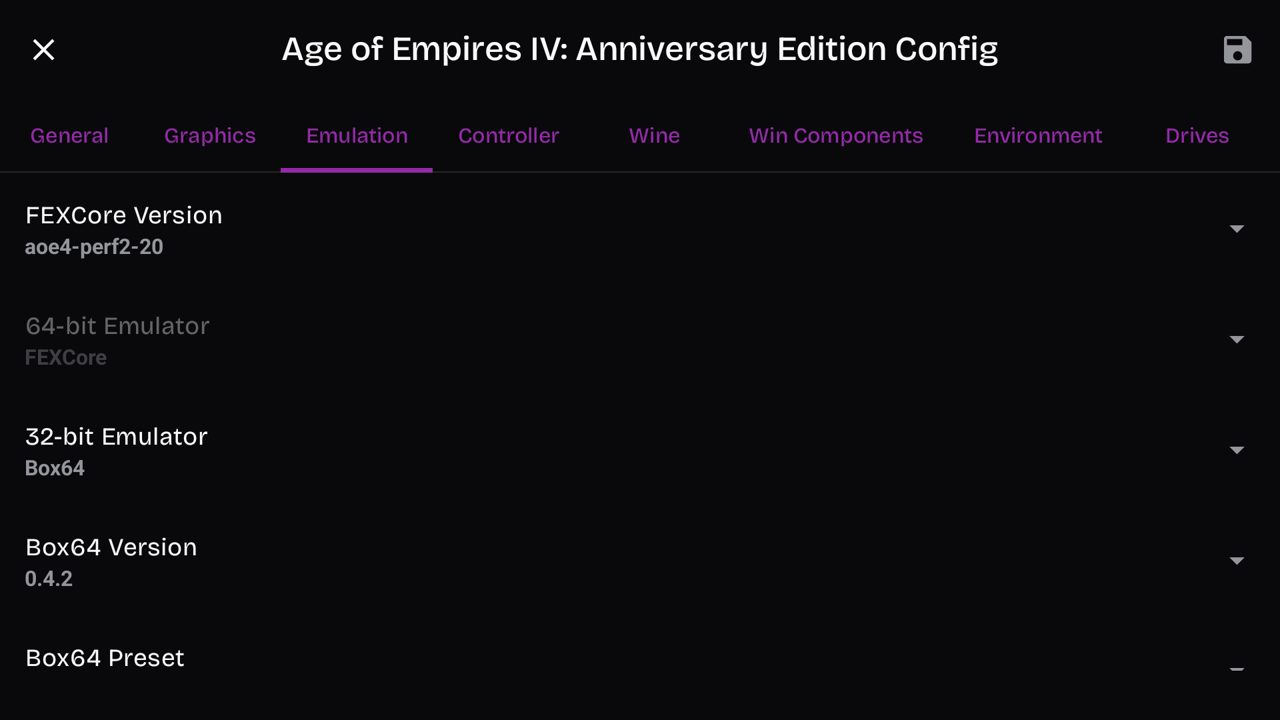
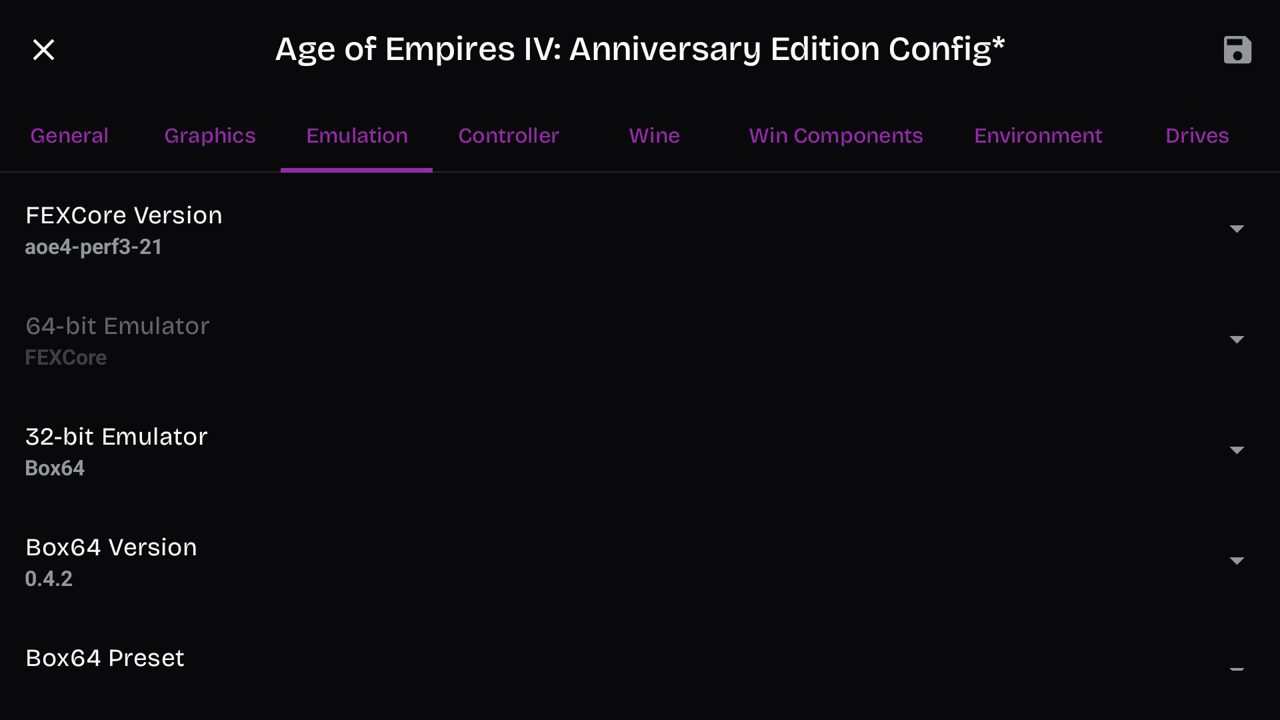
Package v1.1.0: drop 0002, 0007 in every process, add 0015
To lower what the package hides from the game:

- 0002 (hides FEX's name in CPUID leaf 0x40000000) leaves the package.
  The game ran the full benchmark without it and reads FEXIFEXIEMU there.
- 0007 no longer checks for RelicCardinal.exe: it rewrites the bare FF 25
  export stubs in every process where FEX runs. Read with the agent:
  48 ff 25 in the game, aoeagent.exe and winhandler.exe; explorer.exe
  keeps ff 25 because FEX is not loaded there.
- 0015 fixes a FEX bug that the build without 0002 hit: Module.S loaded
  the uint32_t NtDllRedirectionLUTSize with a 64-bit ldr (link error when
  not 8-byte aligned, and the bound included the next 4 bytes).

Back to back on a hot Thor: v1.1.0 41.3 / 40.7 FPS at minutes 1 / 5,
v1.0.0 41.0 / 40.8 (docs/guides/TUNING.md). Clean builds of the v1.0.0 set
and of the new set reproduce the tested DLLs except the build time stamp.

docs/research/UPSTREAM-WINE-ISSUE.md is a draft Wine bug for the source of
the FF 25 stubs (winebuild leaves ARM64EC -import exports to lld's x64
import thunk), with the facts checked in the Wine and LLVM sources.

Changed region(s): [[0.2188, 0.0306, 0.7812, 0.0917], [0.0938, 0.3361, 0.125, 0.3667]]

diff --git a/patches/fex/README.md b/patches/fex/README.md
@@ -3,23 +3,23 @@
 | Patch | Status (2026-10-06) |
 |---|---|
 | `0001` + `0003` | Hide the trap by replacing it with `ForceFullSMCDetection`. `smctest` shows `RWX`, but the game stops at start-up; `SMCChecks=full` stops the same way, so the validation path is the problem ([KILL-REMEASURED.md](../../docs/research/KILL-REMEASURED.md)). |
-| `0002` | Hides the CPUID `0x40000000` vendor. Verified live. Does not stop the kill. |
+| `0002` | Hides the CPUID `0x40000000` vendor. Verified live. Does not stop the kill. **Not in the package since v1.1.0:** a build without it (`bc82c565`) ran the same test at the same speed as v1.0.0 (2026-10-07, [TUNING.md](../../docs/guides/TUNING.md)); the game then reads vendor `FEXIFEXIEMU` from leaf `0x40000000` (hypervisor bit in leaf 1: 0, read with `tools/research/dbgprobe.c`). |
 | `0004` | Keeps the trap and reports the guest's own protection from `NtQueryVirtualMemory` / `NtProtectVirtualMemory`. Verified with `smctest2`; the game runs normally with it. **Does not stop the kill** (5 of 5 runs, [`SMC-TRAP.md`, part 3](../../docs/how-it-works/SMC-TRAP.md#part-3-hiding-fexs-smc-trap-does-not-stop-the-aegis-kill)). |
 | `0006` | On top of 0004: a raw x64 `syscall` returns `rcx` = return address and keeps `rdx`/`r10`, like hardware. Verified with `syscallregs`. **Does not stop the kill** (3 of 3 runs stopped: 2 suspended, 1 exited; [SYSCALL-RETURN.md](../../docs/how-it-works/SYSCALL-RETURN.md)). |
-| `0007` (2026-10-07) | In `RelicCardinal.exe` only: rewrites every exported `FF 25 disp32` thunk of an ARM64X image as `48 FF 25 disp32-1` when padding follows and the 7 bytes stay inside an executable section. **The game's hook check then flags nothing, and the start-up kill is gone**; 2 of 2 judged runs grew their log past the old window, then stopped 8 to 10 minutes in ([HOOK-CHECK.md](../../docs/how-it-works/HOOK-CHECK.md)). |
+| `0007` (2026-10-07) | In every process where FEX runs (since v1.1.0; v1.0.0 did it only in `RelicCardinal.exe`): rewrites every exported `FF 25 disp32` thunk of an ARM64X image as `48 FF 25 disp32-1` when padding follows and the 7 bytes stay inside an executable section. **The game's hook check then flags nothing, and the start-up kill is gone**; 2 of 2 judged runs grew their log past the old window, then stopped 8 to 10 minutes in ([HOOK-CHECK.md](../../docs/how-it-works/HOOK-CHECK.md)). Checked 2026-10-07 with `tools/agent.py`: kernel32 `+0x62710` reads `48 ff 25` in the game, `aoeagent.exe` and `winhandler.exe`; `explorer.exe` keeps `ff 25`, because FEX is not loaded there. The stubs come from Wine's build ([UPSTREAM-WINE-ISSUE.md](../../docs/research/UPSTREAM-WINE-ISSUE.md)). |
 | `0009` (2026-10-07) | Experiment, off unless `FEX_EXP_SKIP_CALLRET_RESET=1`: on code invalidation, do not discard the call-ret stacks of threads that had code cached in the range. Cuts the per-SMC-fault cost from about 124 to 49 us for the protection's thread. With 0007 the game reached its first menu, then the watchdog fired at about 13 minutes ([`WATCHDOG.md`, part 1](../../docs/how-it-works/WATCHDOG.md#part-1-the-later-stop-a-lateness-bucket-on-the-protections-own-loop-2026-10-07)). Unsafe in general. With 0010 a run without it (and with `FEX_TSOENABLED=0`) passed 15 minutes, so the watchdog does not need it; but match FPS fell from about 25 to 8 to 15 without it ([RESEARCH-LOG.md](../../docs/research/RESEARCH-LOG.md), Speed). |
 | `0010` (2026-10-07) | On top of 0004, on unless `FEX_EXP_FASTCONTINUE=0` (the first builds were off unless `=1`): an `NtContinue` to x64 code (full context, not alertable) re-enters the emulator through `KiUserEmulationDispatcher` directly instead of Wine's unix path, which waits for one wineserver `get_thread_info` request per call. A handled exception then costs 2.5 us instead of 230 us (`exccost`), the protection loop's cycle falls to about 1.15 s and the watchdog bucket stays at 0 ([`WATCHDOG.md`, part 2](../../docs/how-it-works/WATCHDOG.md#part-2-fast-continue-the-watchdogs-real-cost-was-a-wineserver-round-trip-per-exception-2026-10-07)). Verified with the job tree build `08172f64` and with the exact set 0002+0004+0006+0007+0009+0010 (`86d6da39`): both ran past 15 minutes with the game played. |
 | `0012` (2026-10-07) | On by default (the code reads `FEX_EXP_VOLATILE=0` as off; that switch was not tested): **volatile code regions.** The protection runs code one instruction at a time from 32-byte slots in a 16 MB RWX buffer, which cost FEX a write fault, an invalidation and a compile per instruction (about 16,000/s). A private allocation of at most 64 MB whose page takes 16 write faults is no longer write-trapped, its blocks are never cached by address or linked, and blocks of the form [one instruction][`jmp` out of the region] share host code by content. Faults fell to about 300/s and skirmish FPS rose from 25.6 to 43 to 44 ([INSTRUCTION-STEPPER.md](../../docs/how-it-works/INSTRUCTION-STEPPER.md)). Verified with the exact set 0002+0004+0006+0007+0009+0010+0012+0013 (`20fdc47a`). |
 | `0013` (2026-10-07) | FEX's code buffer cap from 128 to 512 MB. With 0012 the 128 MB buffer was still replaced (full recompile, a stutter of up to 300 ms) about every 30 s; with 512 MB every 2 to 3 minutes. |
 | `0014` (2026-10-07) | On by default (the code reads `FEX_EXP_REUSE=0` as off; that switch was not tested): **reuse translations of re-decrypted code.** The protection scrambles some of its functions after use and decrypts them again; FEX recompiled them each time and still replaced its 512 MB code buffer (a full recompile) every 2 to 3 minutes. After a compile in a writable executable range FEX keeps the entry's host code with a hash of the decoded guest bytes, and puts it back when the same bytes return. 0 mismatches in 759,256 reuses; the code buffer then stayed at 256 MB for the 13.9 minutes checked ([INSTRUCTION-STEPPER.md](../../docs/how-it-works/INSTRUCTION-STEPPER.md)). Verified with the set 0002+0004+0006+0007+0009+0010+0012+0013+0014 (`6990a221`). |
+| `0015` (2026-10-07) | `CheckCall` in `Module.S` loads the `uint32_t` `NtDllRedirectionLUTSize` with a 64-bit `ldr`: its bound then includes the next 4 bytes in memory, and the link fails (`misaligned ldr/str offset`) when the variable is not 8-byte aligned, which happened in the build without 0002. Loads it as 32 bits. A FEX bug, not specific to this game. |
 | `0008` (2026-10-07) | Analysis tool: copies every distinct decoded block in `0x143800000..0x145000000` of the game process into a 96 MB buffer; `tools/probes/blkread.c` reads it out. The game runs normally with it. |
 
-Build: fresh clone of FEX `7d3090f`, apply 0002 and 0004 (and 0006, 0007, 0008, 0009, 0010 if wanted, in that order; the recommended set is 0002, 0004, 0006, 0007, 0009, 0010, 0012, 0013, 0014, which applies cleanly and was built and run without 0008), the three
-macOS fixes from [BUILDING-FEX.md](../../docs/guides/BUILDING-FEX.md), then `ninja arm64ecfex`. The 0007/0008 results came
-from a tree that also had the (disabled) trace code of 0005; the patches apply to clean `7d3090f` and on top of
-0002+0004+0006, but a build of exactly that set has not been run yet. If the link fails with
-`misaligned ldr/str offset`, add `alignas(8)` to `NtDllRedirectionLUTSize` in `Module.cpp` (`Module.S` loads it
-with a 64-bit `ldr`).
+Build: fresh clone of FEX `7d3090f`, the macOS fixes from [BUILDING-FEX.md](../../docs/guides/BUILDING-FEX.md), then the
+package's patches in this order: 0004, 0006, 0007, 0009, 0010, 0012, 0013, 0014, 0015 (release v1.1.0), then `ninja
+arm64ecfex`. Checked 2026-10-07: a clean build of these files gives the tested DLL `bc82c565` except the 4 bytes of the
+build time stamp (PE header and debug directory), and a clean build of the v1.0.0 set (0002, 0004, 0006, 0007 in its
+game-only form, 0009, 0010, 0012, 0013, 0014; tag `v1.0.0`) gives the released `6990a221` the same way.
 
 ## `0001-hide-smc-trap-from-guest.patch`
 

diff --git a/README.md b/README.md
@@ -30,7 +30,7 @@ things the emulator does differently from Windows. See [How it works](#how-it-wo
 - An Android device with a Snapdragon / Adreno GPU and GameNative 1.2.1. Only the AYN Thor was tested; similar
   Snapdragon 8 Gen 2 devices are the most likely to work.
 - Age of Empires IV on Steam, installed through GameNative.
-- The package `fexcore-aoe4-perf2.wcp` (900 KB) from the
+- The package `fexcore-aoe4-perf3.wcp` (900 KB) from the
   [latest release](https://github.com/tarikbc/aoe4-gamenative/releases/latest).
 - The graphics driver **Turnip v26.2.0 R4** (`Turnio_v26.2.0_R4.zip` from
   [StevenMXZ's release v26.2.0-R4](https://github.com/StevenMXZ/Adreno-Tools-Drivers/releases/tag/v26.2.0-R4)).
@@ -39,10 +39,10 @@ things the emulator does differently from Windows. See [How it works](#how-it-wo
 
 ### 1. Install the patched emulator and the driver
 
-1. Download [`fexcore-aoe4-perf2.wcp`](https://github.com/tarikbc/aoe4-gamenative/releases/latest/download/fexcore-aoe4-perf2.wcp)
+1. Download [`fexcore-aoe4-perf3.wcp`](https://github.com/tarikbc/aoe4-gamenative/releases/latest/download/fexcore-aoe4-perf3.wcp)
    and the driver zip on the device (they land in the Download folder).
 2. In GameNative: **Menu → Settings → Contents Manager → Import .wcp from device**, and pick the `.wcp`.
-   It shows up under the FEXCore type as `aoe4-perf2 (20)`.
+   It shows up under the FEXCore type as `aoe4-perf3 (21)`.
 3. **Menu → Settings → Driver Manager → Import ZIP from device**, and pick the driver zip.
 
 ### 2. Set up the game's container
@@ -57,7 +57,7 @@ Open the game in GameNative, tap the **cog** next to Play, then **Edit container
 | Graphics | Graphics Driver / Version | `Wrapper` / `Turnip v26.2.0 R4` |
 | Graphics | DX Wrapper | `VKD3D` |
 | Emulation | 64-bit Emulator | `FEXCore` |
-| Emulation | FEXCore Version | **`aoe4-perf2-20`** |
+| Emulation | FEXCore Version | **`aoe4-perf3-21`** |
 | Environment | add `WINEDEBUG` | `-all` (no Wine debug output, even when GameNative's Wine debug setting is on) |
 | Environment | add `FEX_EXP_SKIP_CALLRET_RESET` | `1` (roughly doubles the FPS) |
 
@@ -103,6 +103,9 @@ compositor):
 | **This package**, display at 60 Hz | 42.0 to 43.7 | 16.7 ms | 0 to 2 |
 | **This package**, display at 120 Hz | 42 to 46 | 25.3 ms | 0 to 2 |
 
+These were measured with v1.0.0. v1.1.0 gave the same numbers as v1.0.0 in a back-to-back test
+([TUNING.md](docs/guides/TUNING.md)).
+
 The CPU runs hot in long sessions: the hottest CPU sensor read about 95 °C during the tests (GPU about 77 °C).
 
 ## Known issues
@@ -128,8 +131,9 @@ behaves more like Windows; the game and the protection are not modified.
 
 1. **A start-up check failed.** The protection checks that Windows functions are not hooked. Wine's ARM64EC
    build lays out some function stubs (`jmp [addr]`, `FF 25`) in a way that looked like a hook, and the protection
-   stopped the game 2 to 3 minutes after the start. **Patch 0007** rewrites those stubs, in the game's process only, into a
-   form the check accepts. ([HOOK-CHECK.md](docs/how-it-works/HOOK-CHECK.md))
+   stopped the game 2 to 3 minutes after the start. **Patch 0007** rewrites those stubs into a form the check
+   accepts, in every process that runs x64 code. ([HOOK-CHECK.md](docs/how-it-works/HOOK-CHECK.md); the stubs come
+   from Wine's build tools, see [UPSTREAM-WINE-ISSUE.md](docs/research/UPSTREAM-WINE-ISSUE.md))
 2. **A watchdog fired.** One protection thread runs a loop that must keep up with a time budget, and it raises
    thousands of exceptions per second. Each exception cost about 230 µs under Wine (a round trip to the
    wineserver), the loop fell behind, and 8 to 13 minutes in the protection froze the game. **Patch 0010** lets
@@ -146,17 +150,19 @@ All against FEX `7d3090f`, in this order ([patches/fex](patches/fex)):
 
 | Patch | What it does |
 |---|---|
-| 0002 | Hides FEX's hypervisor vendor string in CPUID |
 | 0004 | Reports the game's own memory protection back to it, while FEX keeps its write traps |
 | 0006 | A raw x64 `syscall` returns registers like Windows does |
-| 0007 | Rewrites Wine's `FF 25` export stubs so the protection's hook check passes |
+| 0007 | Rewrites Wine's `FF 25` export stubs, in every process that runs x64 code, so the protection's hook check passes |
 | 0009 | Skips a costly per-fault reset (on only with `FEX_EXP_SKIP_CALLRET_RESET=1`; about twice the FPS) |
 | 0010 | Resumes x64 code after an exception without a wineserver round trip |
 | 0012 | Handles the protection's one-instruction-at-a-time buffer without faults and recompiles |
 | 0013 | Larger code buffer (512 MB), so FEX clears its whole cache less often |
 | 0014 | Reuses compiled code when the protection decrypts the same code again |
+| 0015 | Fixes a FEX bug: a 32-bit value was loaded as 64 bits (it also broke the build without 0002) |
 
-The package's DLL is `libarm64ecfex.dll`, SHA-1 `6990a221`. To build it yourself:
+Since v1.1.0 the package leaves out patch 0002, which hid FEX's name from the game: the game runs the same without
+it, so the package hides less. v1.0.0 had 0002, and 0007 only in the game's process. The package's DLL is
+`libarm64ecfex.dll`, SHA-1 `bc82c565`. To build it yourself:
 [BUILDING-FEX.md](docs/guides/BUILDING-FEX.md) and [`tools/make_fex_wcp.py`](tools/make_fex_wcp.py).
 </details>
 

diff --git a/docs/research/RESEARCH-LOG.md b/docs/research/RESEARCH-LOG.md
@@ -19,7 +19,7 @@ past 20 minutes. Speed in a 1v1 skirmish with the camera turning (compositor fra
 |---|---|
 | GameNative | 1.2.1, container variant `bionic` |
 | Wine | `proton-11.0-99-arm64ec-1` |
-| CPU emulator | FEXCore content `aoe4-perf2-20`: [`fexcore-aoe4-perf2.wcp`](https://github.com/tarikbc/aoe4-gamenative/releases/tag/v1.0.0) (release v1.0.0), FEX `7d3090f` + [patches](../../patches/fex) 0002, 0004, 0006, 0007, 0009, 0010, 0012, 0013, 0014 (`libarm64ecfex.dll`, SHA-1 `6990a221`) |
+| CPU emulator | FEXCore content `aoe4-perf3-21`: [`fexcore-aoe4-perf3.wcp`](https://github.com/tarikbc/aoe4-gamenative/releases/tag/v1.1.0) (release v1.1.0), FEX `7d3090f` + [patches](../../patches/fex) 0004, 0006, 0007, 0009, 0010, 0012, 0013, 0014, 0015 (`libarm64ecfex.dll`, SHA-1 `bc82c565`; release v1.0.0 also had 0002 and the game-only 0007, `6990a221`) |
 | Container `envVars` | `WRAPPER_MAX_IMAGE_COUNT=0 ZINK_DESCRIPTORS=lazy ZINK_DEBUG=compact,deck_emu MESA_SHADER_CACHE_DISABLE=false MESA_SHADER_CACHE_MAX_SIZE=512MB mesa_glthread=true WINEESYNC=1 MESA_VK_WSI_PRESENT_MODE=mailbox TU_DEBUG=noconform VKD3D_SHADER_MODEL=6_0 PULSE_LATENCY_MSEC=144 BOX64_AVX=1 VKD3D_DEBUG=warn WINEDEBUG=-all FEX_EXP_SKIP_CALLRET_RESET=1` (read back from both `.container` copies) |
 | GPU driver | Turnip v26.2.0 R4 (v26.3.0-R6, T30 and Balemuni Apex v2 compared in [TUNING.md](../guides/TUNING.md)) |
 | Display | 120 Hz (`peak_refresh_rate` and `min_refresh_rate` 120), set before the game starts |
@@ -75,13 +75,14 @@ recompile that still came every 2 to 3 minutes: no frame over 100 ms after the f
    ([BUILDING-FEX.md](../guides/BUILDING-FEX.md)); 0009 only acts with `FEX_EXP_SKIP_CALLRET_RESET=1`. Without 0012 to
    0014 the game also runs, at about 27 FPS.
 3. That `libarm64ecfex.dll` packaged as a FEXCore content with [`tools/make_fex_wcp.py`](../../tools/make_fex_wcp.py)
-   (the current one is in release v1.0.0: [`fexcore-aoe4-perf2.wcp`](https://github.com/tarikbc/aoe4-gamenative/releases/tag/v1.0.0), versionName `aoe4-perf2`,
-   versionCode 20, DLL `6990a221`),
+   (the current one is in release v1.1.0: [`fexcore-aoe4-perf3.wcp`](https://github.com/tarikbc/aoe4-gamenative/releases/tag/v1.1.0), versionName `aoe4-perf3`,
+   versionCode 21, DLL `bc82c565`),
    imported in GameNative (Settings, Contents Manager, Import .wcp from device) and selected in the container's
    Emulation tab, FEXCore Version (tested 2026-10-07 10:34 with `aoe-fastcontinue-10`: at the next start logcat
    shows GameNative applying `fexcore-aoe-fastcontinue-10`, and the installed DLL hashed `86d6da39`; since 11:17
    `aoe-fastcontinue2-11`, DLL `eca1e25b`; since 14:52 `aoe4-perf-18`, DLL `20fdc47a`, with 0012 and 0013; since
-   15:58 `aoe4-perf2-20`, DLL `6990a221`, with 0014 too). The earlier runs installed the DLL by hand instead
+   15:58 `aoe4-perf2-20`, DLL `6990a221`, with 0014 too; in the evening `aoe4-perf3-21`, DLL `bc82c565`, without
+   0002 and with 0015). The earlier runs installed the DLL by hand instead
    ([GAMENATIVE-UI.md](../guides/GAMENATIVE-UI.md)).
 4. Container `envVars`: `WINEDEBUG=-all FEX_EXP_SKIP_CALLRET_RESET=1`. 0010 is on by default since build
    `eca1e25b` (`FEX_EXP_FASTCONTINUE=0` turns it off; earlier builds needed `FEX_EXP_FASTCONTINUE=1`). 0009
@@ -303,7 +304,7 @@ and [WINE-GAPS.md](WINE-GAPS.md).
 |---|---|
 | Wine | `proton-11.0-99-arm64ec` |
 | CPU emulator | FEXCore; container variant `bionic` |
-| FEX DLL in use | `C:\windows\system32\libarm64ecfex.dll` built from FEX `7d3090f` + patches 0002, 0004, 0006, 0007, 0009, 0010, 0012, 0013, 0014 (SHA-1 `6990a221`), installed by GameNative from the FEXCore content `aoe4-perf2-20`. Before that: without 0014 (`20fdc47a`, `aoe4-perf-18`) and without 0012 to 0014 (`eca1e25b`, `aoe-fastcontinue2-11`) |
+| FEX DLL in use | `C:\windows\system32\libarm64ecfex.dll` built from FEX `7d3090f` + patches 0004, 0006, 0007, 0009, 0010, 0012, 0013, 0014, 0015 (SHA-1 `bc82c565`), installed by GameNative from the FEXCore content `aoe4-perf3-21`. Before that: with 0002 and the game-only 0007 (`6990a221`, `aoe4-perf2-20`), without 0014 (`20fdc47a`, `aoe4-perf-18`) and without 0012 to 0014 (`eca1e25b`, `aoe-fastcontinue2-11`) |
 | FEX switches | none needed with build `eca1e25b` (0010 on by default); the 11:24 run also had `FEX_TSOENABLED=0` |
 | DX wrapper | VKD3D (vkd3d-proton 2.14.1 + DXVK 2.4.1-gplasync) |
 | GPU driver | Turnip v26.2.0 R4 |

diff --git a/docs/research/UPSTREAM-WINE-ISSUE.md b/docs/research/UPSTREAM-WINE-ISSUE.md
@@ -1,0 +1,54 @@
+# Draft Wine bug: ARM64EC `-import` exports start with a bare x64 `jmp [rip+x]`
+
+Not filed. This is the source-level cause of the hook-check failure in [HOOK-CHECK.md](../how-it-works/HOOK-CHECK.md),
+written as a Wine bug report. FEX patch 0007 works around it inside the emulator; a fix in Wine would make that patch
+unnecessary. Sources were read on 2026-10-07 at Wine master `63f62f7cd696` and llvm-project main `1a5b507c6c6f`.
+
+## Summary
+
+On ARM64EC, functions that a DLL re-exports from another DLL (`-import` in the `.spec` file; kernel32.spec has many)
+are exported as lld's x64 import thunk, which is a bare `FF 25 00000000` (`jmp *__imp_X(%rip)`). x64 code that resolves
+such an export (`GetProcAddress`) sees a function that starts with a 6-byte indirect jump. x64 hook detectors in
+games treat that start as an inline hook. On x86_64 Wine the same export starts with winebuild's hot-patch prolog
+instead.
+
+## What the code does
+
+- **winebuild, x86_64:** the end of `output_exports` in
+  [`tools/winebuild/spec32.c`](https://github.com/wine-mirror/wine/blob/63f62f7cd696/tools/winebuild/spec32.c#L585-L622)
+  emits, for every `-import` entry, eight `nop`s, the label `__wine_spec_imp_<name>`, the hot-patch prolog
+  `48 8D A4 24 00 00 00 00` (`lea rsp,[rsp+0]`) and `jmp *__imp_<name>(%rip)`. The export points at that thunk.
+- **winebuild, ARM64EC:** the start of the same function
+  ([lines 414 to 439](https://github.com/wine-mirror/wine/blob/63f62f7cd696/tools/winebuild/spec32.c#L414-L439))
+  writes only `.drectve` directives `-export:Name=Name,@ord` and returns. The plain `Name` of an import is lld's x64
+  import thunk.
+- **lld:** the x64 import thunk is `importThunkX86[] = {0xff, 0x25, 0x00, 0x00, 0x00, 0x00}`
+  ([`lld/COFF/Chunks.h`](https://github.com/llvm/llvm-project/blob/1a5b507c6c6f/lld/COFF/Chunks.h#L545-L547)).
+  For exports whose target is ARM64EC code, lld emits a fast-forward sequence (`ECExportThunkCode`, `48 8B C4 48 89
+  58 20 55 5D E9 ...`, [same file](https://github.com/llvm/llvm-project/blob/1a5b507c6c6f/lld/COFF/Chunks.h#L839-L847)),
+  as Microsoft's toolchain does for all DLL exports ([ARM64EC ABI, "Fast-forward
+  sequences"](https://learn.microsoft.com/en-us/windows/arm/arm64ec-abi)); an import thunk gets none.
+
+## How it shows
+
+AoE IV (Relic's Aegis) checks 63 Windows API functions at start-up. Under GameNative's Proton 11.0 ARM64EC with FEX,
+27 of them were flagged, all in kernel32's `.text`, all starting with `FF 25` (measured, see
+[HOOK-CHECK.md](../how-it-works/HOOK-CHECK.md)). Presenting the same jumps as `48 FF 25` (FEX patch 0007) made the
+check flag nothing.
+
+## Possible fix (not tested)
+
+The following was proposed by reading the source; none of it was built or run here.
+
+1. In `output_exports`, for ARM64EC `-import` entries, emit the same x86_64 thunk as on x86_64 (nop pad, hot-patch
+   prolog, `jmp *__imp_<name>(%rip)`) and point the `-export:` directive at it. Wine merge request
+   [!11975](https://gitlab.winehq.org/wine/wine/-/merge_requests/11975) (winebuild assembling ARM64EC output as
+   x86_64) looks like the base for this.
+2. `arm64x_check_call` in
+   [`dlls/ntdll/signal_arm64ec.c`](https://github.com/wine-mirror/wine/blob/63f62f7cd696/dlls/ntdll/signal_arm64ec.c#L1897-L1979)
+   follows a bare `FF 25` to its target so that ARM64EC callers skip the emulator. It would need to skip the hot-patch
+   prolog as well, or calls through these exports would run in the emulator (correct, but slower).
+
+Not checked: what Microsoft's own ARM64X kernel32 or link.exe produce for a re-exported import, and whether the
+game's detector accepts the `lea` prolog form. The game's start-up decision under Box64, which runs x86_64 Wine, took
+the same branch as with patch 0007 ([HOOK-CHECK.md](../how-it-works/HOOK-CHECK.md)).

diff --git a/docs/how-it-works/HOOK-CHECK.md b/docs/how-it-works/HOOK-CHECK.md
@@ -48,15 +48,18 @@ or ntdll syscall stubs (`4C 8B D1 B8 ...`), which the detector does not flag.
 `tools/winebuild/spec32.c` (`output_exports`, Valve Wine `proton_11.0`) gives every `-import` export a hot-patch
 prolog, `48 8D A4 24 00 00 00 00`, before `jmp *__imp_x(%rip)`. That branch only runs for `CPU_i386` and
 `CPU_x86_64`. The ARM64EC kernel32 has bare `FF 25` thunks instead: its `.text` holds 933 `FF 25 disp32` sequences
-followed by padding.
+followed by padding. Where they come from (lld's x64 import thunk), and a possible fix in Wine:
+[UPSTREAM-WINE-ISSUE.md](../research/UPSTREAM-WINE-ISSUE.md).
 
 ## Patch 0007: rewrite exported `FF 25` thunks
 
 [0007](../../patches/fex/0007-rewrite-ff25-export-thunks.patch) rewrites each exported `FF 25 disp32` in an ARM64X
 image (one with a `.hexpthk` section) as `48 FF 25 disp32-1`: the same jump, one byte longer. It only rewrites when
-the byte after the jump is padding and the 7 bytes stay inside an executable section. It runs only in
-`RelicCardinal.exe`: on the first image mapping after the main thread has a CPU area, for every module already
-loaded, and for each image mapped after that.
+the byte after the jump is padding and the 7 bytes stay inside an executable section. It runs on the first image
+mapping after the main thread has a CPU area, for every module already loaded, and for each image mapped after that.
+Until v1.0.0 it ran only in `RelicCardinal.exe`; since v1.1.0 it runs in every process where FEX runs. Read with
+`tools/agent.py` on 2026-10-07: kernel32 `+0x62710` holds `48 ff 25` in the game, `aoeagent.exe` and
+`winhandler.exe`, and `ff 25` in `explorer.exe`, which has no FEX loaded (no x64 code runs there).
 
 `tools/probes/thunkprobe.c`, run as `RelicCardinal.exe`, counted the rewritten exports: kernel32 798, kernelbase 2,
 user32 208, advapi32 200, ntdll 0, ws2_32 0.
@@ -118,7 +121,8 @@ settings, and `r12` at `+0x3ebb5f8` was still `0x96fce`.
 
 - **Link error after adding a global to FEX's Module.cpp:** `ld.lld: error: misaligned ldr/str offset`. `CheckCall`
   in `Module.S` loads `NtDllRedirectionLUTSize` (a `uint32_t`) with a 64-bit `ldr`. When the data layout moves it to
-  a 4-byte boundary the link fails. `alignas(8)` on that variable fixes it.
+  a 4-byte boundary the link fails. `alignas(8)` on that variable avoids it; patch 0015 loads it as 32 bits instead,
+  which also keeps the bound from including the next 4 bytes.
 - **An intermittent start-up failure:** in 4 runs the game process failed in `loader_init` with an execute fault at
   the entry of its own `ucrtbase.dll` (`ucrtbase.dll+0x63c10`). In all 4 the game process had ntdll at
   `0x7fff9a0000` and ucrtbase at `0x7f..`; a run that started normally had ntdll at `0x6fff9a0000`. One of the builds

diff --git a/docs/README.md b/docs/README.md
@@ -13,7 +13,7 @@ The problems the patches fix, one write-up each, and the protection itself.
 | [WATCHDOG.md](how-it-works/WATCHDOG.md) | **Problem 2, patch 0010.** The lateness bucket on the protection's loop, and the wineserver round trip per exception that filled it |
 | [INSTRUCTION-STEPPER.md](how-it-works/INSTRUCTION-STEPPER.md) | **Problem 3, patches 0012 to 0014.** Code run one instruction at a time from a scratch buffer, and how FEX now handles it (26.7 → 43.7 FPS) |
 | [SMC-TRAP.md](how-it-works/SMC-TRAP.md) | Patch 0004. FEX's self-modifying-code trap was visible to the game; hiding it did not stop the kill |
-| [FEX-VENDOR-LEAK.md](how-it-works/FEX-VENDOR-LEAK.md) | Patch 0002. FEX's name in CPUID leaf `0x40000000` |
+| [FEX-VENDOR-LEAK.md](how-it-works/FEX-VENDOR-LEAK.md) | Patch 0002 (not in the package since v1.1.0). FEX's name in CPUID leaf `0x40000000` |
 | [SYSCALL-RETURN.md](how-it-works/SYSCALL-RETURN.md) | Patch 0006. Registers after a raw x64 `syscall` |
 
 The patch files themselves, with a status line each: [patches/fex](../patches/fex).
@@ -56,6 +56,7 @@ README): status history, verified facts, traps, and an index of every write-up b
 | [AEGIS-TRACE.md](research/AEGIS-TRACE.md) | Tracing the game's syscalls inside FEX |
 | [WINEDEBUG-LEFTOVER.md](research/WINEDEBUG-LEFTOVER.md) | Why some runs stalled: leftover Wine debug channels |
 | [UPSTREAM-FEX-ISSUE.md](research/UPSTREAM-FEX-ISSUE.md) | Draft FEX issue: the SMC write trap is visible to the guest |
+| [UPSTREAM-WINE-ISSUE.md](research/UPSTREAM-WINE-ISSUE.md) | Draft Wine bug: where the `FF 25` export stubs come from, and a possible fix in Wine |
 | [samples/](research/samples) | Redacted raw run data behind these write-ups |
 
 Screenshots are in [img/](img).

diff --git a/docs/guides/TUNING.md b/docs/guides/TUNING.md
@@ -80,6 +80,19 @@ GameNative's Wine debug setting was on here with the channel `warn` (its `wine_d
 so without the variable Wine would print its warnings. The variable stays. With Wine debug off in GameNative it should
 change nothing (from the code; not tested). The container's config was put back byte for byte afterwards.
 
+## v1.1.0 package: same speed without 0002 (21:54 to 22:17)
+
+The package without patch 0002, with 0007 in every process and with 0015 (`aoe4-perf3-21`, DLL `bc82c565`), against
+the v1.0.0 package (`aoe4-perf2-20`, `6990a221`), back to back on a Thor already hot from earlier runs (120 Hz, R4
+driver, scaling power profile):
+
+| Package | FPS minute 1 / 5 | frames > 50 ms | frames > 100 ms | CPU hottest | GPU hottest |
+|---|---|---|---|---|---|
+| v1.1.0 (21:59, 22:03) | 41.3 / 40.7 | 6 / 5 | 0 / 0 | 96.3 / 95.1 °C | 79.6 / 81.2 °C |
+| v1.0.0 (22:12, 22:16) | 41.0 / 40.8 | 3 / 7 | 0 / 0 | 96.3 / 96.3 °C | 81.2 / 82.0 °C |
+
+The same within the test's spread. Earlier that evening a cooler Thor gave 42.6 FPS at minute 1 (v1.0.0, 21:20).
+
 ## Where the frame time goes (60 Hz, 16:50, `tools/threadcpu.py`)
 
 Main thread 52.6 % of one core, render thread 34.6 %, the protection's loop 21.9 %, `vkd3d_queue` 9.6 %, eight

diff --git a/docs/guides/GAMENATIVE-UI.md b/docs/guides/GAMENATIVE-UI.md
@@ -129,10 +129,11 @@ In the FEXCore Version list, `ntdll-waitq-fix-1` is the last item and sits at th
 (`(1680, 1055)`).
 
 **Since 2026-10-07 evening** the Thor no longer has `2610-aoe-nofex2-3` or `ntdll-waitq-fix-1` (removed in the
-clean-up). Its FEXCore contents are `aoe4-perf2-20` (in use, DLL `6990a221`), `aoe4-perf-18` (`20fdc47a`, without
+clean-up). Its FEXCore contents are `aoe4-perf3-21` (in use, DLL `bc82c565`, release v1.1.0), `aoe4-perf2-20` (`6990a221`,
+release v1.0.0), `aoe4-perf-18` (`20fdc47a`, without
 patch 0014) and `aoe-fastcontinue2-11` (`eca1e25b`, without 0012 to 0014). GameNative writes the selected content's
 DLL at every start, so after a bad build, selecting one of these in the Emulation tab (`tools/gn_select_fex.py
-aoe4-perf2-20`) is enough; that switch was used many times that day, each time taking effect at the next start.
+aoe4-perf3-21`) is enough; that switch was used many times that day, each time taking effect at the next start.
 
 ## Gotchas
 
